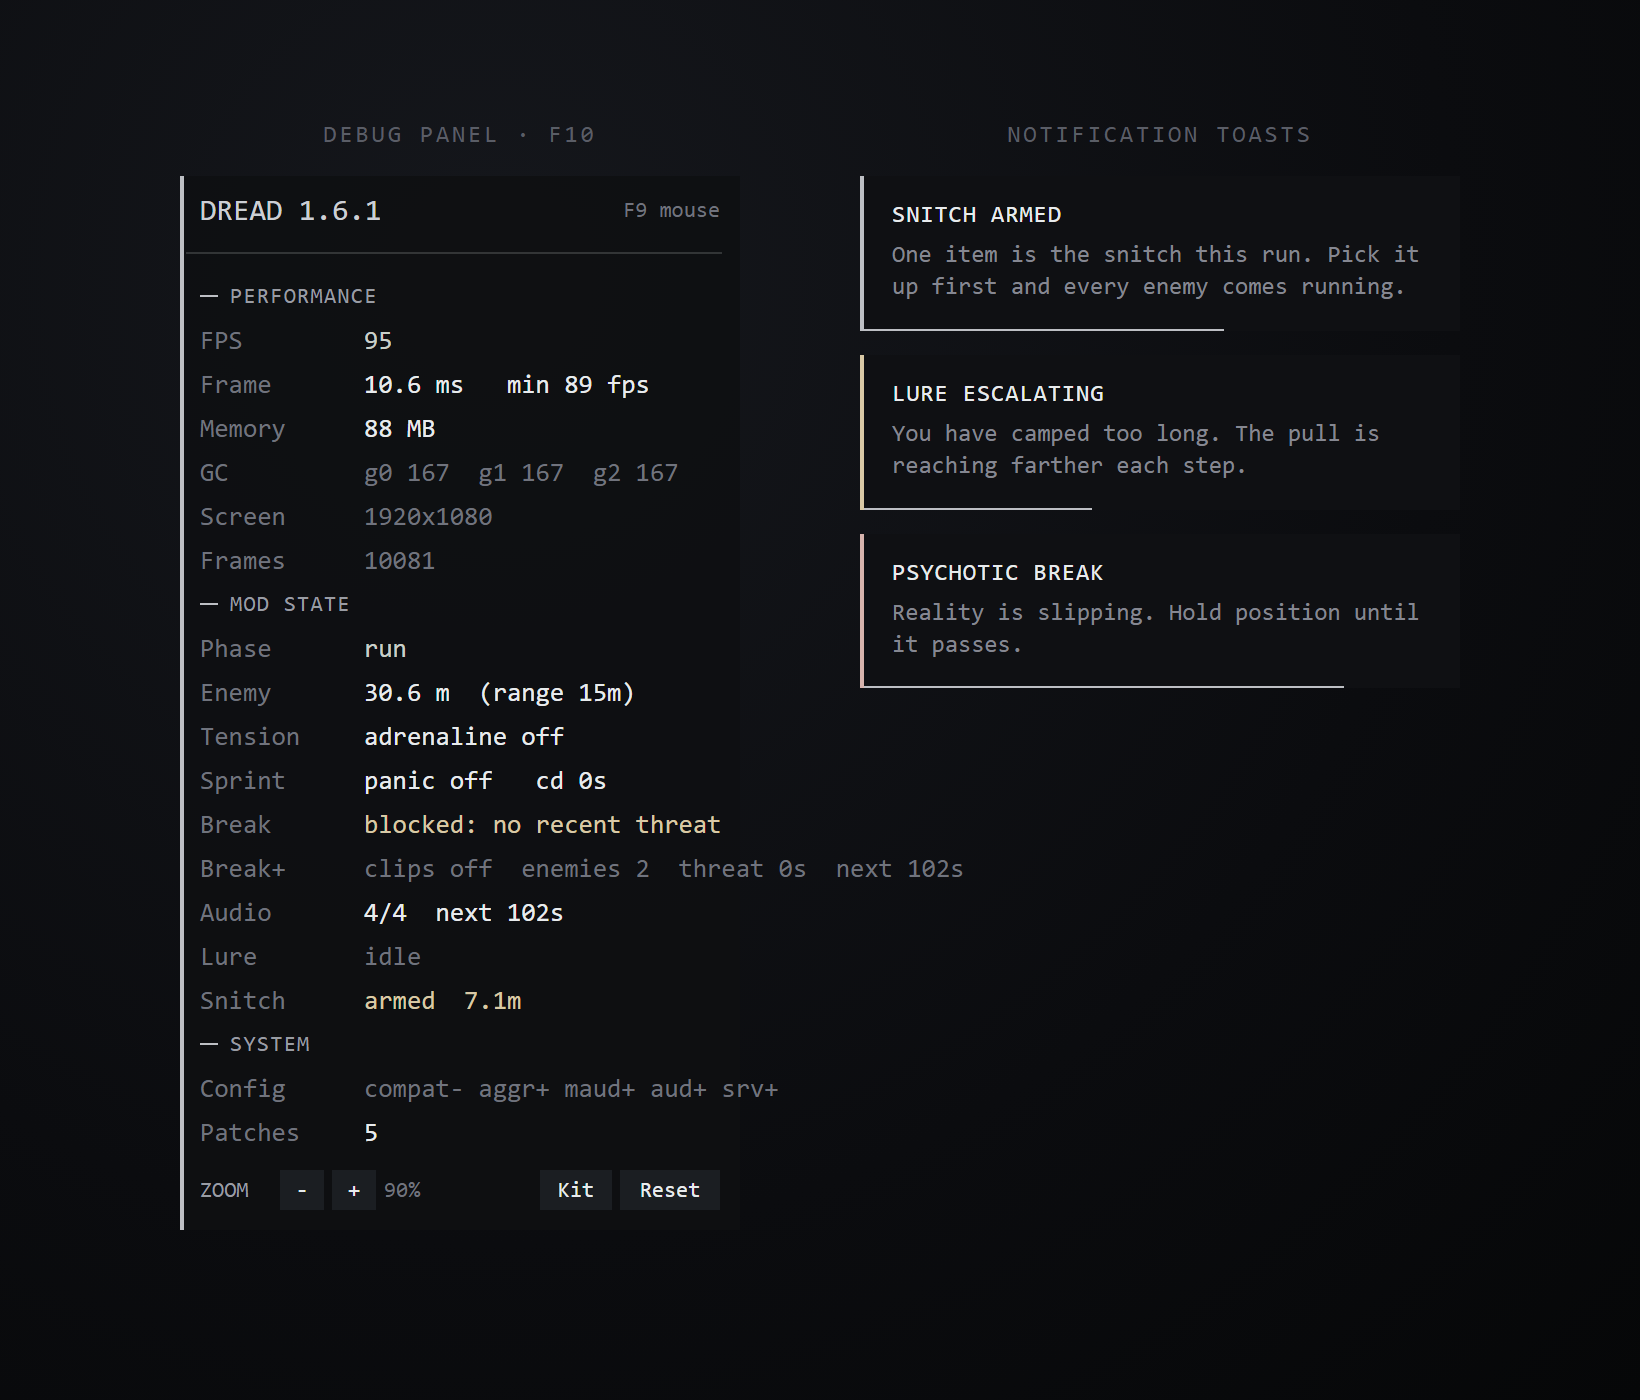
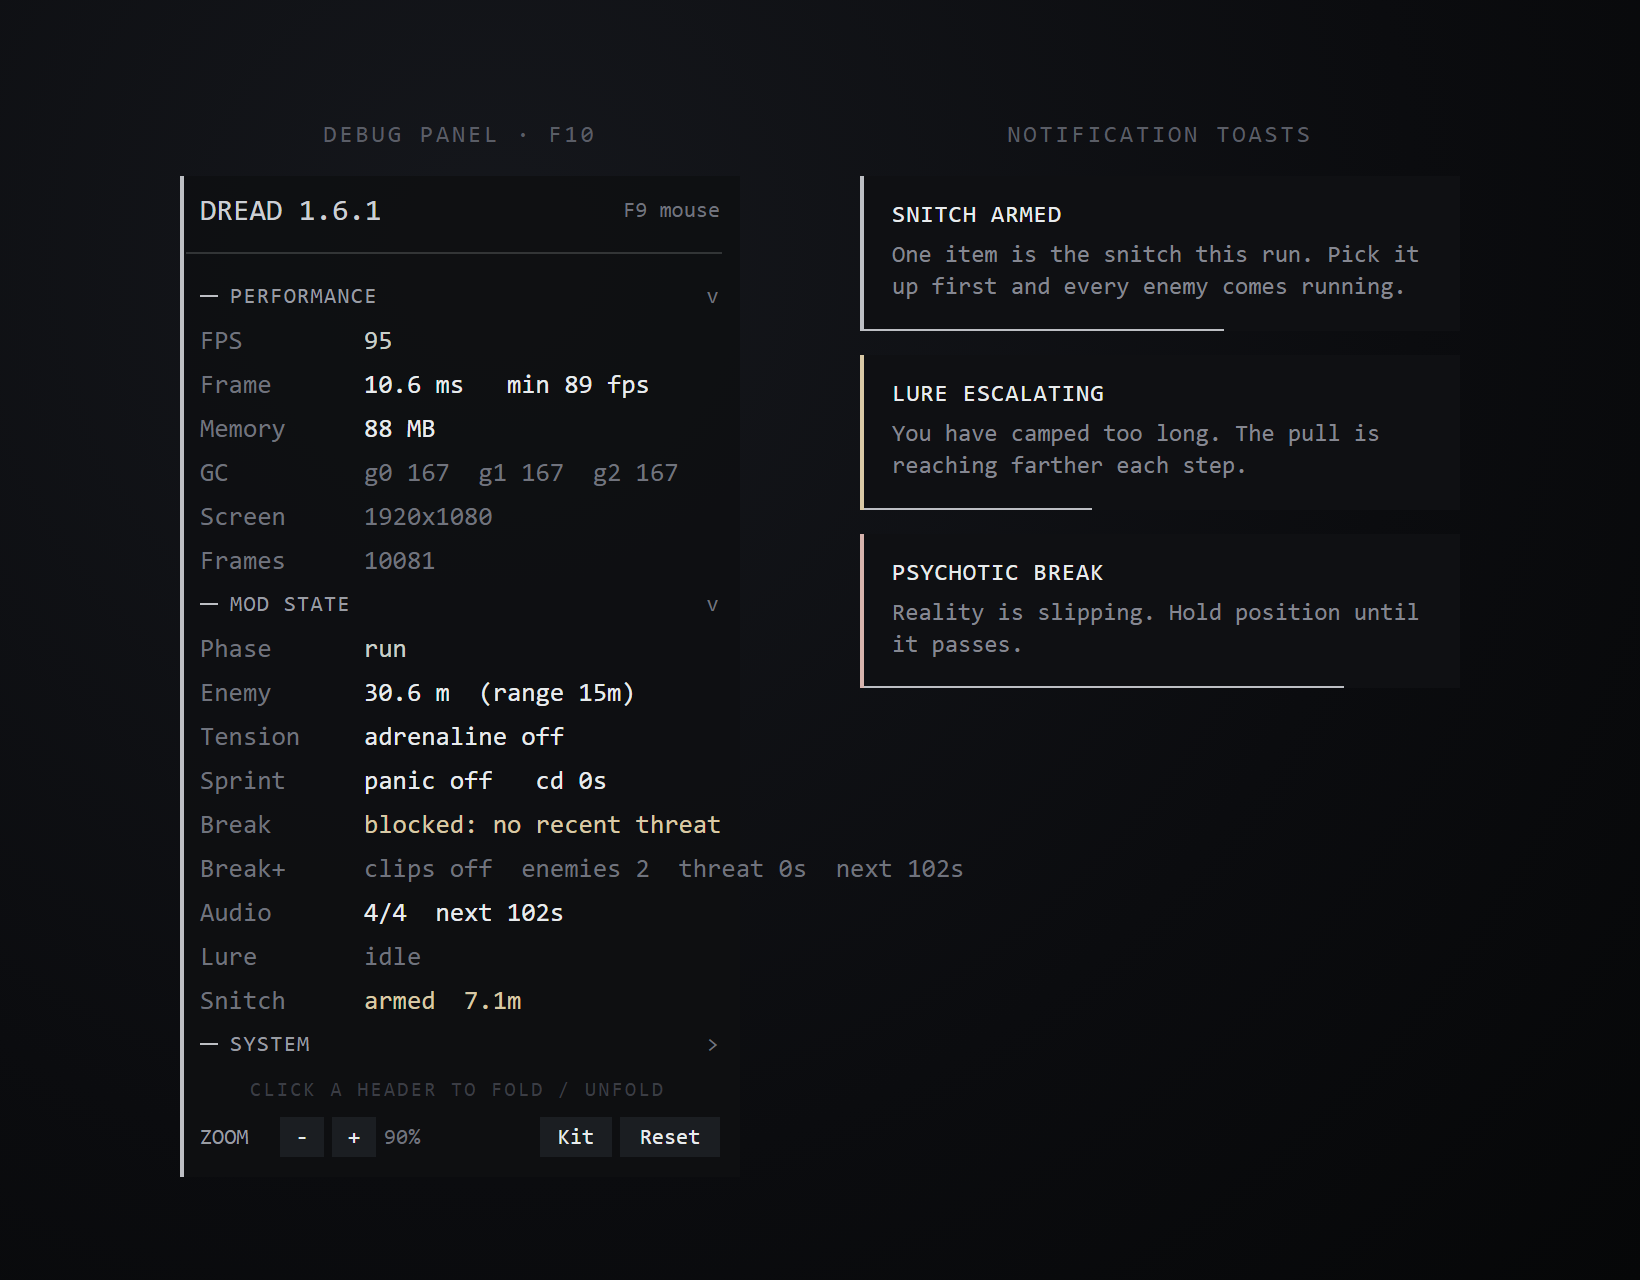
feat(debug-overlay): collapsible sections, persisted
Click a section header (PERFORMANCE / MOD STATE / SYSTEM) to fold its
rows; the panel shrinks to fit. Fold state saves to config and survives
a relaunch. A caret marks each section's state. Preview updated.

diff --git a/hud-preview.html b/hud-preview.html
@@ -45,6 +45,8 @@
   .section{height:22px; display:flex; align-items:center; gap:6px; font-size:11px;
            color:var(--section); letter-spacing:.06em;}
   .section .tick{width:9px; height:1px; background:var(--rail);}
+  .section .caret{margin-left:auto; color:var(--dim); cursor:pointer;}
+  .section{cursor:pointer;}
   .k{color:var(--dim); width:82px; flex:0 0 82px;}
   .v{color:var(--value);}
   .v.good{color:var(--good);} .v.warn{color:var(--warn);} .v.bad{color:var(--bad);} .v.dim{color:var(--dim);}
@@ -75,14 +77,14 @@
       <div class="rail"></div>
       <div class="row header"><span>DREAD 1.6.1</span><span class="hint">F9 mouse</span></div>
       <div class="sep"></div>
-      <div class="section"><span class="tick"></span>PERFORMANCE</div>
+      <div class="section"><span class="tick"></span>PERFORMANCE<span class="caret">v</span></div>
       <div class="row"><span class="k">FPS</span><span class="v good">95</span></div>
       <div class="row"><span class="k">Frame</span><span class="v">10.6 ms&nbsp;&nbsp;&nbsp;min 89 fps</span></div>
       <div class="row"><span class="k">Memory</span><span class="v">88 MB</span></div>
       <div class="row"><span class="k">GC</span><span class="v dim">g0 167&nbsp;&nbsp;g1 167&nbsp;&nbsp;g2 167</span></div>
       <div class="row"><span class="k">Screen</span><span class="v dim">1920x1080</span></div>
       <div class="row"><span class="k">Frames</span><span class="v dim">10081</span></div>
-      <div class="section"><span class="tick"></span>MOD STATE</div>
+      <div class="section"><span class="tick"></span>MOD STATE<span class="caret">v</span></div>
       <div class="row"><span class="k">Phase</span><span class="v good">run</span></div>
       <div class="row"><span class="k">Enemy</span><span class="v">30.6 m&nbsp;&nbsp;(range 15m)</span></div>
       <div class="row"><span class="k">Tension</span><span class="v">adrenaline off</span></div>
@@ -92,9 +94,13 @@
       <div class="row"><span class="k">Audio</span><span class="v">4/4&nbsp;&nbsp;next 102s</span></div>
       <div class="row"><span class="k">Lure</span><span class="v dim">idle</span></div>
       <div class="row"><span class="k">Snitch</span><span class="v warn">armed&nbsp;&nbsp;7.1m</span></div>
-      <div class="section"><span class="tick"></span>SYSTEM</div>
+      <div class="section"><span class="tick"></span>SYSTEM<span class="caret">&gt;</span></div>
+      <!-- SYSTEM folded: rows hidden, panel shrinks to fit -->
+      <!--
       <div class="row"><span class="k">Config</span><span class="v dim">compat- aggr+ maud+ aud+ srv+</span></div>
       <div class="row"><span class="k">Patches</span><span class="v">5</span></div>
+      -->
+      <div class="cap" style="margin:6px 0 0 25px; font-size:10px; opacity:.6">click a header to fold / unfold</div>
       <div class="footer">
         <span class="zlabel">ZOOM</span>
         <button class="btn">-</button>

diff --git a/Systems/DebugOverlay/DebugOverlayPanel.cs b/Systems/DebugOverlay/DebugOverlayPanel.cs
@@ -12,6 +12,10 @@ namespace Dread.Systems
     {
         private readonly List<RowData> _rows = new(16);
 
+        // Sections folded by the user (keyed by uppercase section label).
+        // Persisted so the chosen layout survives a relaunch.
+        private readonly HashSet<string> _collapsed = new();
+
         // Panel zoom (whole panel scales). Adjusted by the footer +/- buttons.
         private float _zoom = 1f;
 
@@ -55,7 +59,7 @@ namespace Dread.Systems
             float labelW = 82f * z;
             float btnH = 20f * z;
             float footerH = btnH + 8f * z;
-            float height = padTop + padBottom + _rows.Count * lineH + footerH;
+            float height = padTop + padBottom + VisibleRowCount() * lineH + footerH;
 
             var panel = new Rect(_panelX, _panelY, width, height);
             GUI.Box(panel, EmptyContent, _boxStyle!);
@@ -67,6 +71,7 @@ namespace Dread.Systems
             float y = panel.y + padTop;
             float innerW = width - padX * 2f;
 
+            bool hideRows = false;
             for (int i = 0; i < _rows.Count; i++)
             {
                 var row = _rows[i];
@@ -79,9 +84,13 @@ namespace Dread.Systems
                 }
                 else if (row.Kind == RowSection)
                 {
-                    // Short steel tick, then the uppercase section label.
+                    // Short steel tick, then a clickable label that folds the section.
+                    hideRows = _collapsed.Contains(row.Left);
                     GUI.Box(new Rect(x, y + lineH * 0.5f - 0.5f, 9f * z, 1f), EmptyContent, _railStyle!);
-                    GUI.Label(new Rect(x + 15f * z, y, innerW - 15f * z, lineH), row.Left, _sectionStyle!);
+                    if (GUI.Button(new Rect(x + 15f * z, y, innerW - 15f * z, lineH), row.Left, _sectionBtnStyle!))
+                        ToggleSection(row.Left);
+                    // Caret marks fold state ('>' collapsed, 'v' open), right-aligned.
+                    GUI.Label(new Rect(x, y, innerW, lineH), hideRows ? ">" : "v", _caretStyle!);
                 }
                 else if (row.Kind == RowHeader)
                 {
@@ -90,6 +99,8 @@ namespace Dread.Systems
                 }
                 else
                 {
+                    if (hideRows)
+                        continue;
                     GUI.Label(new Rect(x, y, labelW, lineH), row.Left, _labelStyle!);
                     GUIStyle valueStyle = _valueStyle!;
                     valueStyle.normal.textColor = row.Color;
@@ -192,6 +203,41 @@ namespace Dread.Systems
             SaveLayout();
         }
 
+        // Fold or unfold a section, then persist the new layout.
+        private void ToggleSection(string label)
+        {
+            if (!_collapsed.Remove(label))
+                _collapsed.Add(label);
+            SaveLayout();
+        }
+
+        // Rows actually drawn given the current fold state: section/header/sep
+        // rows always show; normal rows hide under a collapsed section. Drives
+        // panel height so it shrinks to fit when sections are folded.
+        private int VisibleRowCount()
+        {
+            int n = 0;
+            bool hide = false;
+            for (int i = 0; i < _rows.Count; i++)
+            {
+                var kind = _rows[i].Kind;
+                if (kind == RowSection)
+                {
+                    hide = _collapsed.Contains(_rows[i].Left);
+                    n++;
+                }
+                else if (kind == RowNormal)
+                {
+                    if (!hide) n++;
+                }
+                else
+                {
+                    n++;
+                }
+            }
+            return n;
+        }
+
         // Restore the panel's saved zoom and position so they survive a relaunch.
         // Called from Awake, after DreadConfig is initialized.
         private void LoadLayout()
@@ -199,6 +245,18 @@ namespace Dread.Systems
             _zoom = Mathf.Clamp(DreadConfig.DebugOverlayZoom.Value, 0.6f, 1.6f);
             _panelX = DreadConfig.DebugOverlayPanelX.Value;
             _panelY = DreadConfig.DebugOverlayPanelY.Value;
+
+            _collapsed.Clear();
+            string saved = DreadConfig.DebugOverlayCollapsedSections.Value;
+            if (!string.IsNullOrEmpty(saved))
+            {
+                foreach (var part in saved.Split(','))
+                {
+                    string s = part.Trim();
+                    if (s.Length > 0)
+                        _collapsed.Add(s);
+                }
+            }
         }
 
         // Persist the current zoom and position. Called when the user changes zoom
@@ -208,6 +266,7 @@ namespace Dread.Systems
             DreadConfig.DebugOverlayZoom.Value = _zoom;
             DreadConfig.DebugOverlayPanelX.Value = _panelX;
             DreadConfig.DebugOverlayPanelY.Value = _panelY;
+            DreadConfig.DebugOverlayCollapsedSections.Value = string.Join(",", _collapsed);
             DreadConfig.SaveToDisk();
         }
 
@@ -269,6 +328,8 @@ namespace Dread.Systems
             _labelStyle!.fontSize = Scaled(13);
             _valueStyle!.fontSize = Scaled(13);
             _sectionStyle!.fontSize = Scaled(11);
+            _sectionBtnStyle!.fontSize = Scaled(11);
+            _caretStyle!.fontSize = Scaled(11);
             _buttonStyle!.fontSize = Scaled(11);
         }
 

diff --git a/Systems/DebugOverlay/DebugOverlayStyles.cs b/Systems/DebugOverlay/DebugOverlayStyles.cs
@@ -34,6 +34,8 @@ namespace Dread.Systems
         private GUIStyle? _labelStyle;
         private GUIStyle? _valueStyle;
         private GUIStyle? _sectionStyle;
+        private GUIStyle? _sectionBtnStyle;
+        private GUIStyle? _caretStyle;
         private GUIStyle? _sepStyle;
         private GUIStyle? _buttonStyle;
 
@@ -73,6 +75,19 @@ namespace Dread.Systems
             _sectionStyle = new GUIStyle(GUI.skin.label)
                 { fontSize = 11, wordWrap = false, alignment = TextAnchor.MiddleLeft };
             _sectionStyle.normal.textColor = ColSection;
+
+            // Transparent button over the section label so the row folds on click.
+            // No background = invisible chrome; it reads as the section label itself.
+            _sectionBtnStyle = new GUIStyle(GUI.skin.label)
+                { fontSize = 11, wordWrap = false, alignment = TextAnchor.MiddleLeft };
+            _sectionBtnStyle.normal.textColor = ColSection;
+            _sectionBtnStyle.hover.textColor = ColAccent;
+            _sectionBtnStyle.active.textColor = ColAccent;
+
+            // Fold caret, right-aligned in the section row.
+            _caretStyle = new GUIStyle(GUI.skin.label)
+                { fontSize = 11, wordWrap = false, alignment = TextAnchor.MiddleRight };
+            _caretStyle.normal.textColor = ColDim;
 
             _sepStyle = new GUIStyle(GUI.skin.box);
             _sepStyle.normal.background = _sepTex;

diff --git a/Config/DreadConfig.cs b/Config/DreadConfig.cs
@@ -51,6 +51,7 @@ namespace Dread.Config
         public static ConfigEntry<float> DebugOverlayZoom = null!;
         public static ConfigEntry<float> DebugOverlayPanelX = null!;
         public static ConfigEntry<float> DebugOverlayPanelY = null!;
+        public static ConfigEntry<string> DebugOverlayCollapsedSections = null!;
 
         // 9. Debug Server
         public static ConfigEntry<bool> DebugServerEnabled = null!;
@@ -197,6 +198,12 @@ namespace Dread.Config
                 140f,
                 "Saved top-left Y of the debug HUD panel in pixels. Set in-game by dragging the panel "
                     + "header (F9 mouse mode); persists across launches.");
+            DebugOverlayCollapsedSections = cfg.Bind(
+                "8. Debug Overlay",
+                "CollapsedSections",
+                string.Empty,
+                "Internal: comma-separated list of debug HUD sections folded shut. Set in-game by "
+                    + "clicking a section header (F9 mouse mode); persists across launches.");
 
             DebugServerEnabled = cfg.Bind(
                 "9. Debug Server",
@@ -237,6 +244,7 @@ namespace Dread.Config
                 CompatibilityMode, CompatibilitySkipConflictingPatches, DebugConsoleGuardEnabled,
                 ErrorReportingEnabled, ErrorReportingPromptShown,
                 DebugOverlayEnabled, DebugOverlayZoom, DebugOverlayPanelX, DebugOverlayPanelY,
+                DebugOverlayCollapsedSections,
                 DebugServerEnabled, DebugServerPort,
                 LogLevelEntry, TestCrashButton,
             ];